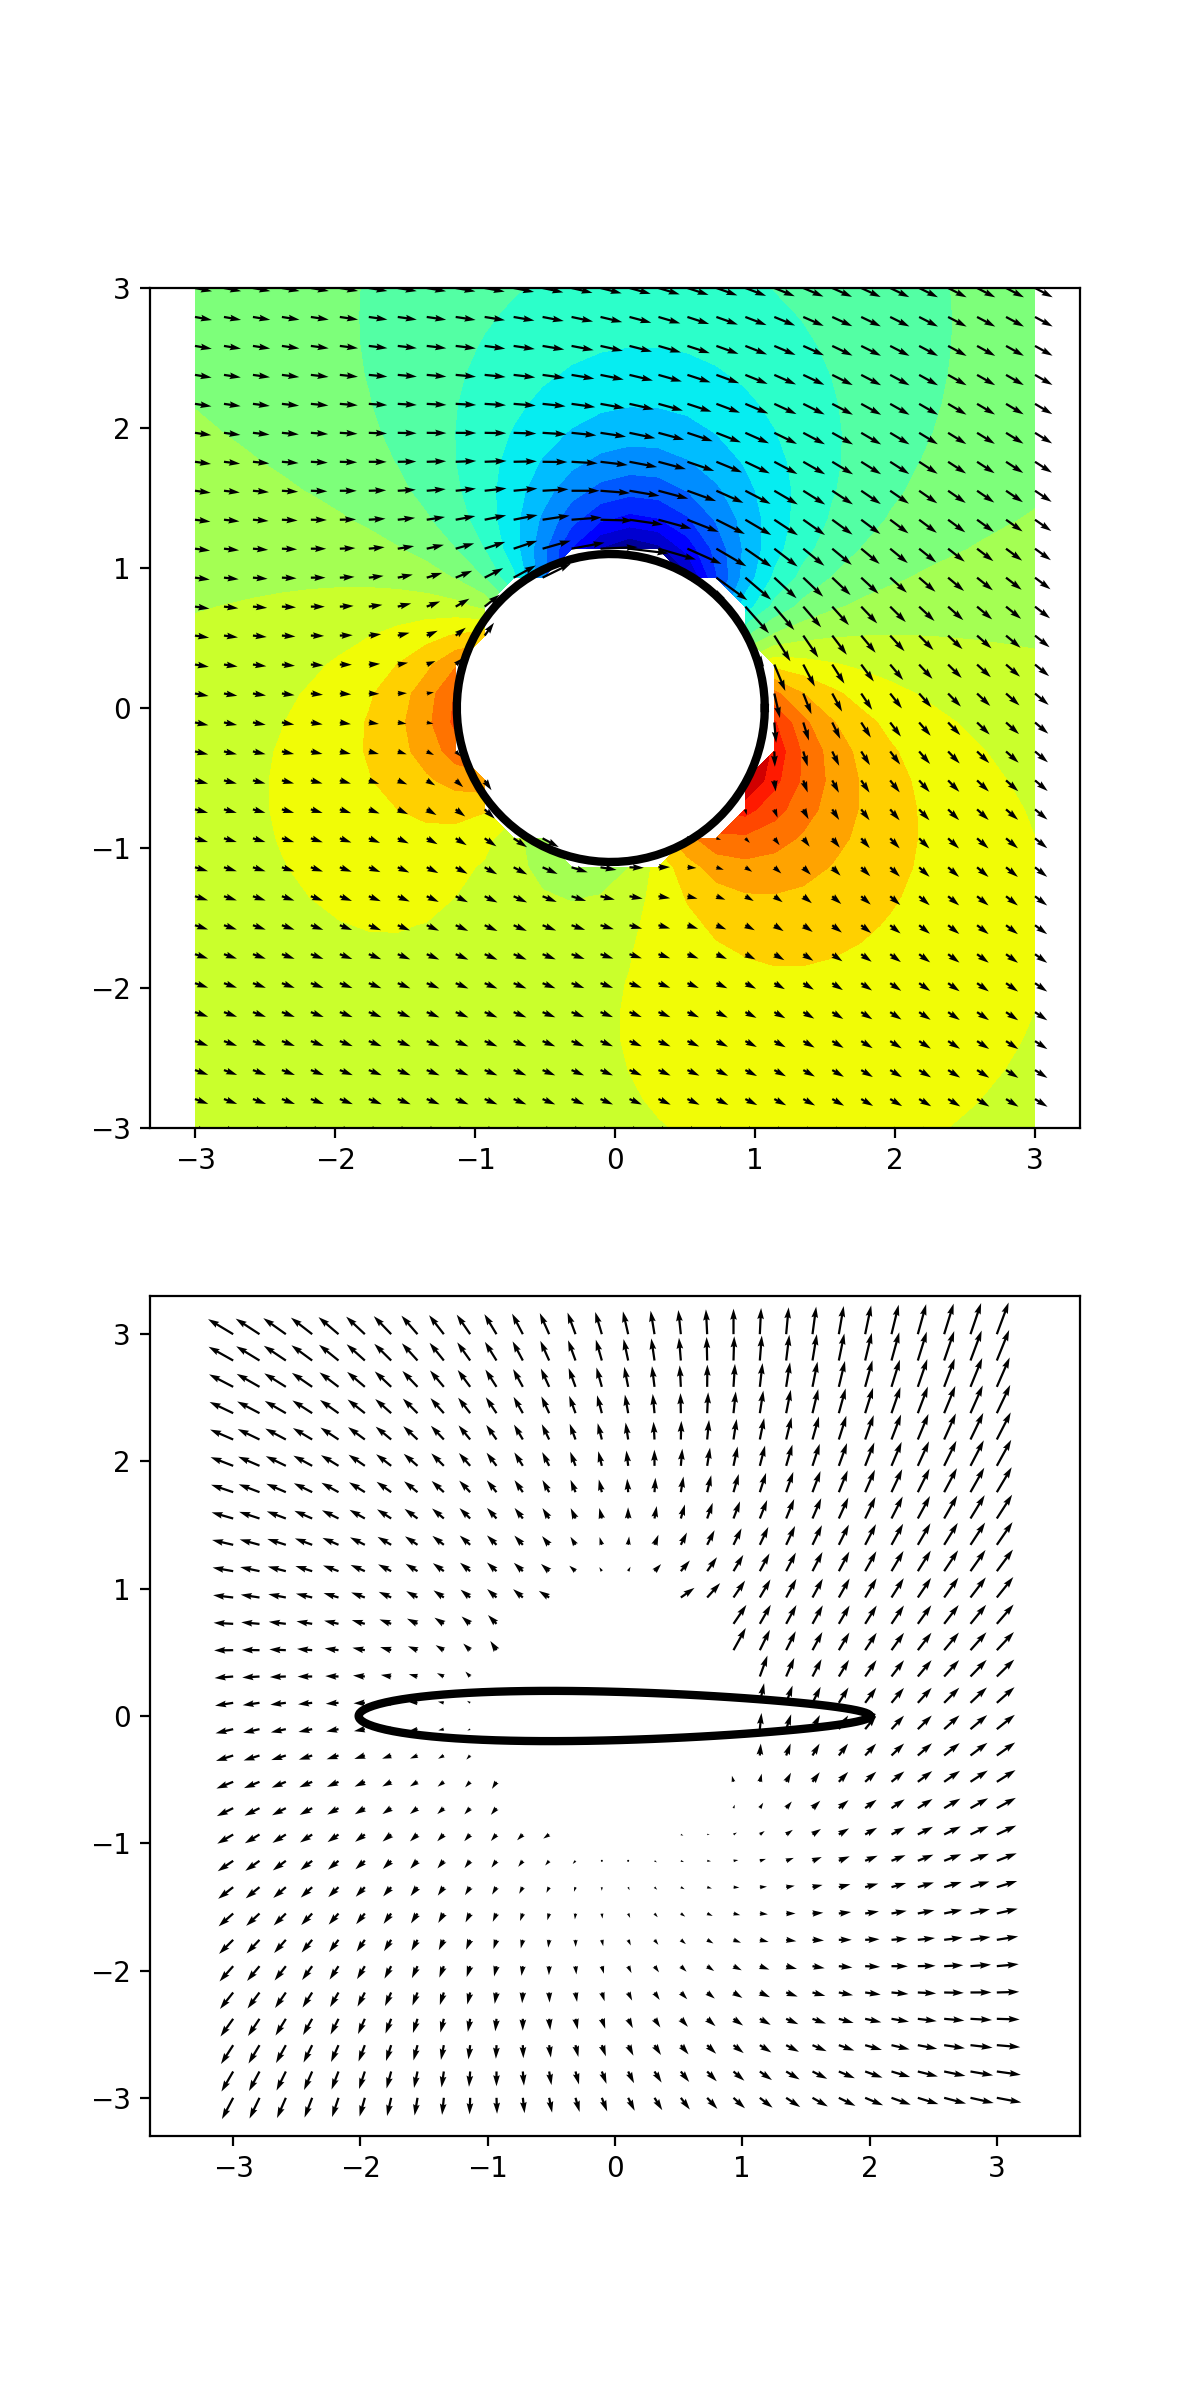
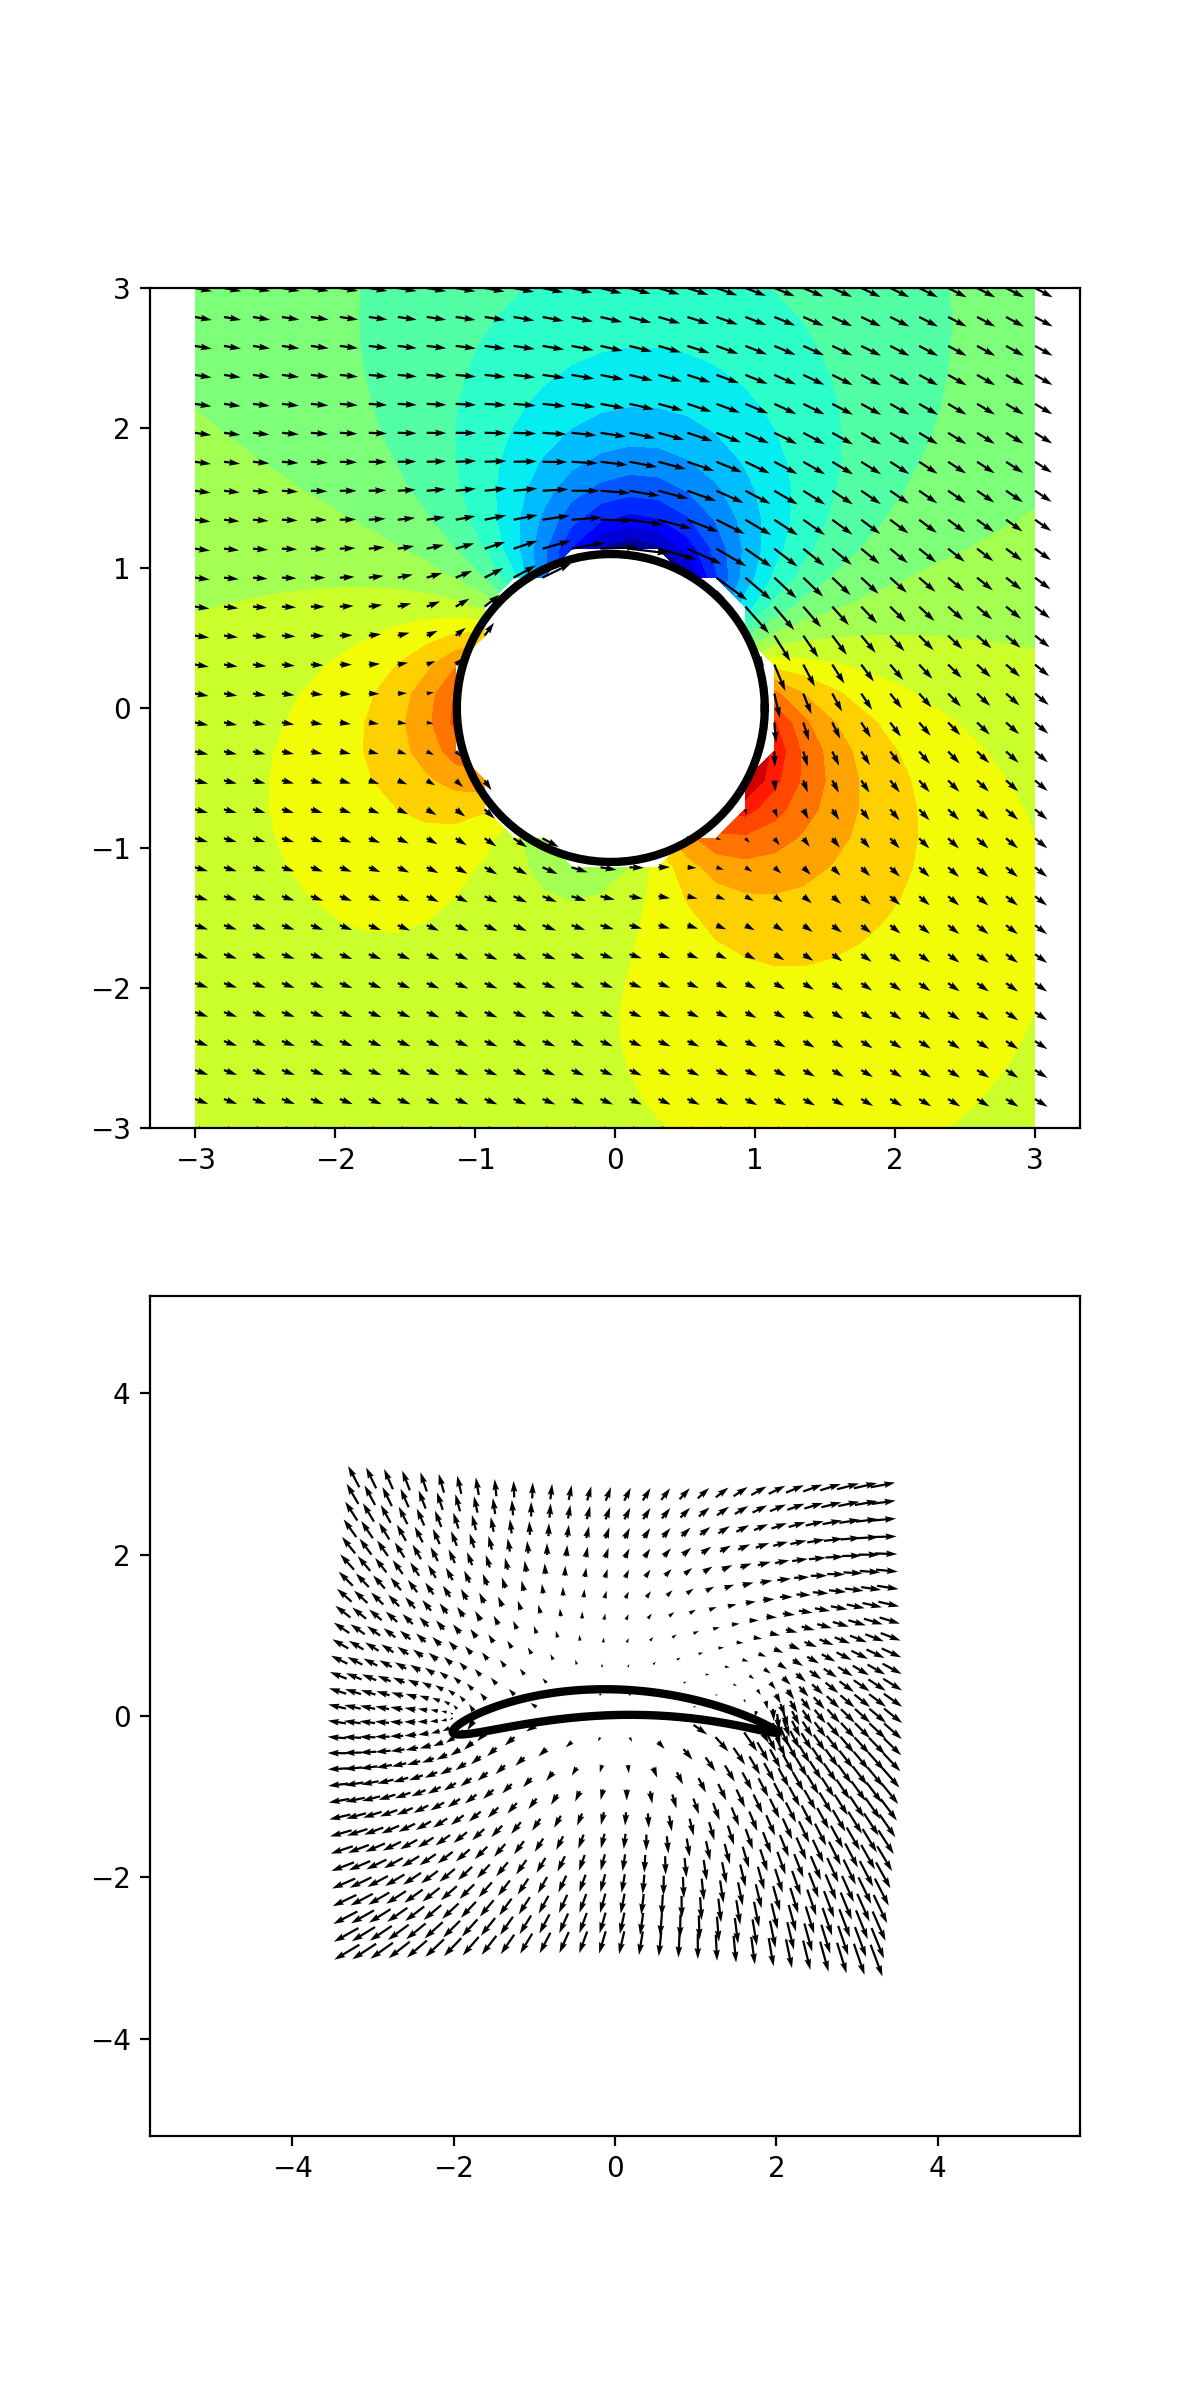
update

Changed region(s): [[0.185, 0.5312, 0.8325, 0.875], [0.185, 0.6875, 0.2158, 0.9062], [0.0925, 0.8438, 0.1233, 0.875]]

diff --git a/run_wing_profile.py b/run_wing_profile.py
@@ -28,32 +28,41 @@ circle = 1.1*R*np.exp(ang*1j)+0.2*1j-0.03
 
 w_cyl = U * (np.exp(alpha*1j) - R**2/(z**2*np.exp(alpha*1j)-a*1j))-1j*(gamma/(2*np.pi*z))
 # transform = 1/(1-R**2/(z**2))
-circle = circle-0.2*1j
+circle2 = circle-0.2*1j
 
 transform = z + c**2/z
 w_wing = w_cyl*transform
 
-wing = circle + c**2/circle
+wing = circle2 + c**2/circle2
 
+
+# %% Joukowsky transform
+fz = z+R**2/z
+platte = circle + R**2/circle
+platte2 = platte -0.2*1j
+w_platte = w_cyl*transform
+# Z=flipud(Z);
+# fz = Z(:)+R^2./Z(:);
+# fx = real(fz);
+# fy = imag(fz);
+# platte = kreis+R^2./kreis;
+# platte = platte -0.2*1i;
+
+z_platte = np.flipud(xx).flatten() + np.flipud(yy).flatten()*1j
+z_platte = z_platte +c**2/z_platte
 
 fig1, [ax0,ax1] = plt.subplots(2,1,figsize=(6,12))
 
-# w_cyl = np.nan_to_num(w_cyl)
-# levels = np.linspace(np.min(np.abs(-w_cyl)),np.max(np.abs(-w_cyl)),100)
-# print(levels)
-# print(np.min(np.abs(w_cyl)),np.max(np.abs(w_cyl)))
-# print(w_cyl)
-
-# ax1.plot(circ_x,circ_y,'-k',lw=3)
-# ax1.plot(unit_circ_x,unit_circ_y,'--k',lw=1)
 ax0.contourf(xx,yy,np.reshape(-w_cyl,[n,n]),20,cmap='jet')
 ax0.quiver(xx.flatten(),yy.flatten(),w_cyl.real,-w_cyl.imag,color='k')
-ax0.plot(circle.real,circle.imag,'-k',lw=3)
+ax0.plot(circle2.real,circle2.imag,'-k',lw=3)
 
 ax0.axis('equal')
 
-ax1.quiver(xx.flatten(),yy.flatten(),w_wing.real,-w_wing.imag,color='k')
-ax1.plot(wing.real,wing.imag,'-k',lw=3)
+# ax1.quiver(xx.flatten(),yy.flatten(),w_wing.real,-w_wing.imag,color='k')
+ax1.quiver(z_platte.real,z_platte.imag,w_platte.real,-w_platte.imag,color='k')
+ax1.plot(platte2.real,platte2.imag,'-k',lw=3)
+# ax1.plot(wing.real,wing.imag,'-k',lw=3)
 ax1.axis('equal')
 
 plt.savefig("./images/magnus_effect.png",dpi=200)
